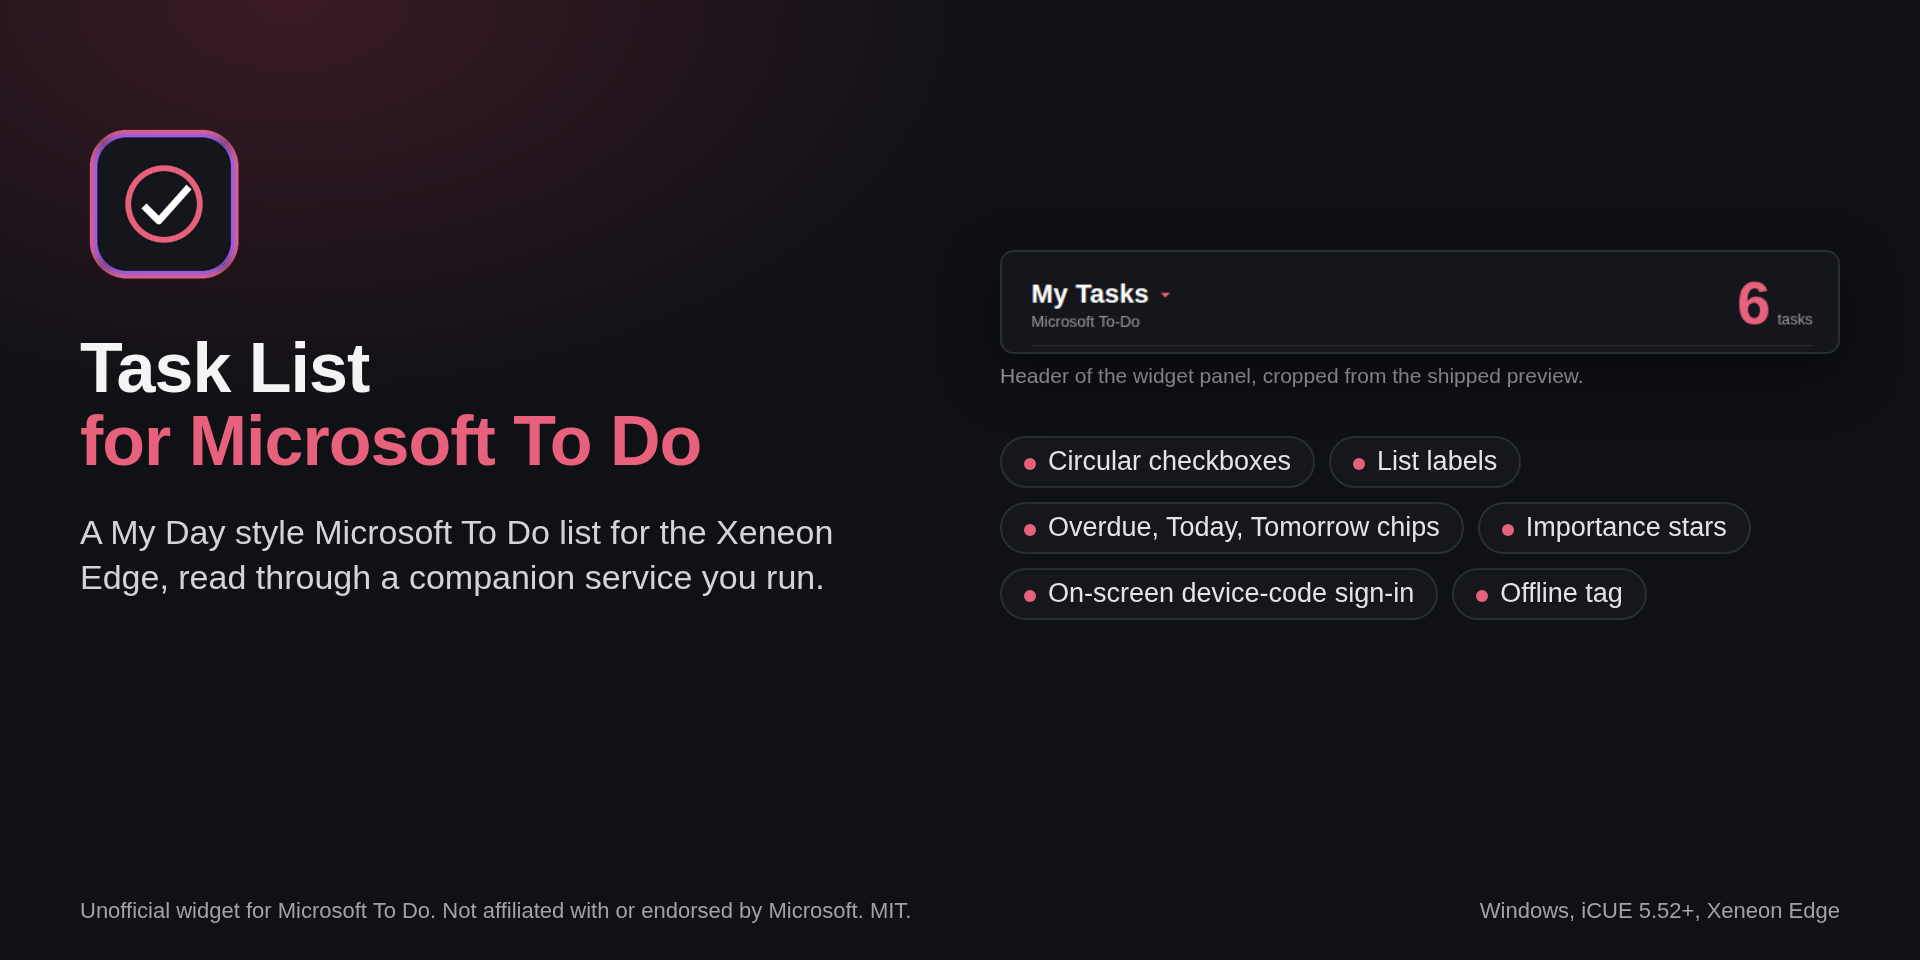
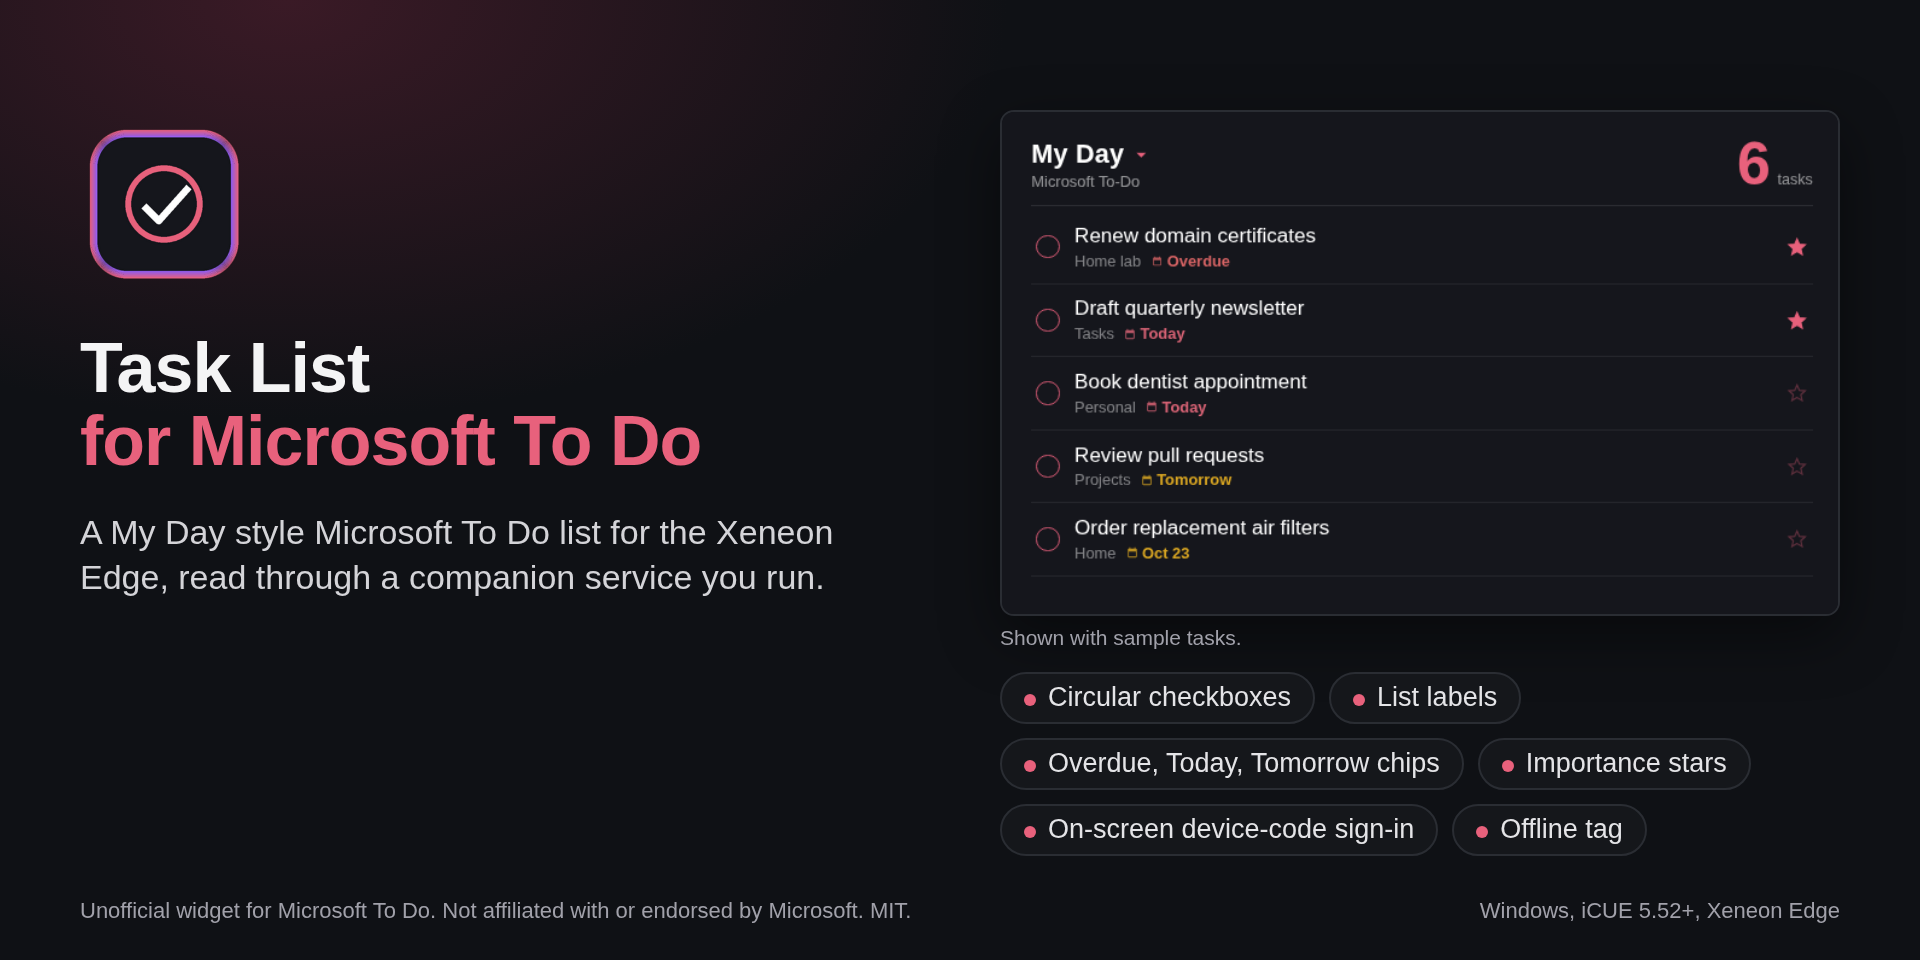
Point the README and listing kit at the published proxy image and 1.0.2

diff --git a/marketplace/src/gallery-01.html b/marketplace/src/gallery-01.html
@@ -8,9 +8,9 @@
   <h1>Task List<br><span class="accent">for Microsoft To Do</span></h1>
   <p class="sub">A My Day style Microsoft To Do list for the Xeneon Edge, read through a companion service you run.</p>
 </div>
-<div style="position:absolute; left:1000px; top:250px; width:840px;">
-  <div class="tile" style="width:840px; height:104px; position:relative;"><img src="../../resources/preview.png" style="width:840px; position:absolute; left:0; top:0;"></div>
-  <div class="cap" style="font-size:21px; color:#a1a1aa; margin-top:10px;">Header of the widget panel, cropped from the shipped preview.</div>
-  <div class="pills" style="margin-top:48px;"><span>Circular checkboxes</span><span>List labels</span><span>Overdue, Today, Tomorrow chips</span><span>Importance stars</span><span>On-screen device-code sign-in</span><span>Offline tag</span></div>
+<div style="position:absolute; left:1000px; top:110px; width:840px;">
+  <div class="tile" style="width:840px;"><img src="../../resources/preview.png" style="width:840px; display:block;"></div>
+  <div class="cap" style="font-size:21px; color:#a1a1aa; margin-top:10px;">Shown with sample tasks.</div>
+  <div class="pills" style="margin-top:22px;"><span>Circular checkboxes</span><span>List labels</span><span>Overdue, Today, Tomorrow chips</span><span>Importance stars</span><span>On-screen device-code sign-in</span><span>Offline tag</span></div>
 </div>
 <div class="foot"><span>Unofficial widget for Microsoft To Do. Not affiliated with or endorsed by Microsoft. MIT.</span><span>Windows, iCUE 5.52+, Xeneon Edge</span></div>

diff --git a/marketplace/listing.md b/marketplace/listing.md
@@ -30,15 +30,17 @@ Gaming, Artistic, Monitoring, Engagement and Social; pick the closest one the co
 
 ## Release notes
 
-Version 1.0.1
+Version 1.0.2
 
+- Replaces the preview image with one rendered from sample data.
+- Packages only the files the widget loads; the preview image, README and this kit stay out of the `.icuewidget`.
 - Declares url network permissions in the manifest (`localhost:8585` and `any`).
 - Sets `min_app_version` to 5.52.
 - Bundles the media viewer inside the widget folder and self-closes the head elements, so the package passes the iCUE widget validator.
 - Replaces personal host defaults with generic ones.
 - Adds a SECURITY policy and a README Install section that points at the GitHub release.
 
-(Condensed from the GitHub release notes for v1.0.1 (`gh release view v1.0.1 -R joshuawowk/icue-widget-mstodo`).)
+(Condensed from the GitHub release notes for v1.0.2 and v1.0.1 (`gh release view v1.0.2 -R joshuawowk/icue-widget-mstodo`).)
 
 ## Requirements
 
@@ -47,7 +49,7 @@ Version 1.0.1
 - A CORSAIR Xeneon Edge (`dashboard_lcd` device).
 - xeneon-graph-proxy (https://github.com/joshuawowk/xeneon-graph-proxy) running and reachable from the PC, by default at `http://localhost:8585`. It is a companion service the user runs; the widget does not talk to Microsoft directly.
 - A Microsoft account with To Do lists; the proxy signs in once by device code and holds read-only Graph scopes (`Tasks.Read`).
-- Packaging status of the proxy is a snapshot: the v1.0.1 README says the `ghcr.io` container image was not yet published and the proxy must be built from source with `docker compose up -d --build`. Re-check with `gh release list -R joshuawowk/xeneon-graph-proxy` and the proxy README before submitting, and update this listing if the image is now published.
+- The proxy ships as a container image: `docker pull ghcr.io/joshuawowk/xeneon-graph-proxy:0.1.0` (linux/amd64, linux/arm64). See the proxy README for setup.
 
 ## Network permissions
 
@@ -66,14 +68,14 @@ MIT, see `LICENSE` in the repository root. Source: https://github.com/joshuawowk
 - Submission route unverified. Elgato's become-a-maker page lists Stream Deck, Wave Link, OBS and 3D as self-serve Maker
   Console categories but does not list iCUE widgets. If the console has no iCUE widget option, the fallback is the
   maker@elgato.com "New Product Submission" email route.
-- File to upload: `microsoft-todo.icuewidget`, the `.icuewidget` attached to GitHub release v1.0.1:
-  https://github.com/joshuawowk/icue-widget-mstodo/releases/download/v1.0.1/microsoft-todo.icuewidget
+- File to upload: `microsoft-todo.icuewidget`, the `.icuewidget` attached to GitHub release v1.0.2:
+  https://github.com/joshuawowk/icue-widget-mstodo/releases/download/v1.0.2/microsoft-todo.icuewidget
   Download it from the release; do not zip the folder by hand. To rebuild it, use `npm run package` (needs
   `npm install -g icuewidget-cli`).
-- Manifest version is 1.0.1 and the file above matches release v1.0.1. If you submit a later release, update the
+- Manifest version is 1.0.2 and the file above matches release v1.0.2. If you submit a later release, update the
   version, release notes and file name in this kit first.
 - Listing icon: `resources/icon.png` is 256x256 and was upscaled to 288x288 with ImageMagick (`convert resources/icon.png -resize 288x288!`), so it is slightly soft; re-export `resources/icon.svg` at 288 for a sharper icon if needed.
-- Packaging caveat: `npm run package` runs `icuewidget package .` on the repository root, which zips every non-hidden file. A `marketplace/` folder would therefore be swept into future `.icuewidget` builds (about 0.8 MB of PNGs and HTML). Nothing in this kit changes the package script; stage the widget files or exclude `marketplace/` before the next release build.
+- Packaging: `npm run package` (tools/package.js) stages only the files the widget loads, so `marketplace/`, the README and `resources/preview.png` stay out of the `.icuewidget`.
 - Validator note: `icuewidget validate` (CLI 0.5.0, run in October 2026 on the unzipped local `dist/` build of that version) passes with one warning that the `any` url permission grants access to every external host. The permission is intentional because the host is user-entered; expect reviewers to ask about it and point them at the Network permissions section.
 - Not tested on hardware: the kit was written without Windows, iCUE or a Xeneon Edge. Gallery slides show the shipped preview and text only; no screenshot was taken from a running panel.
 
@@ -82,11 +84,11 @@ MIT, see `LICENSE` in the repository root. Source: https://github.com/joshuawowk
 | File | Size | Use |
 | --- | --- | --- |
 | `listing-icon-288.png` | 288x288 | Product icon |
-| `gallery-01.png` | 1920x960 | Overview: product name and a crop of the widget header from `resources/preview.png` |
+| `gallery-01.png` | 1920x960 | Overview: product name and the full widget preview (`resources/preview.png`, rendered from sample data) |
 | `gallery-02.png` | 1920x960 | Feature cards: lists, due chips, importance stars, sign-in, offline, sizing |
 | `gallery-03.png` | 1920x960 | Widget, xeneon-graph-proxy and Microsoft Graph, setup steps and network permission |
 
-`resources/preview.png` is NOT used in full. It shows what look like real work task titles and list names, and the gallery images must carry no real task content, so slide 1 uses only a crop of its header strip (the "My Tasks" title and count) and the other slides are built from the feature list. `resources/preview.png` is also shipped inside the released `.icuewidget`; consider regenerating it from sample data.
+`resources/preview.png` was regenerated from sample data against a mock proxy on 2026-10-20 (the earlier image showed real entries). It is not part of the packaged widget.
 `marketplace/src/` holds the HTML sources and `marketplace/build.sh` re-renders the gallery PNGs with
 headless Chromium.
 

diff --git a/README.md b/README.md
@@ -13,7 +13,7 @@ A **My Day**-style Microsoft To-Do list for the CORSAIR Xeneon Edge, visually mo
 > docker run -d --name xeneon-graph-proxy --restart unless-stopped -p 8585:8585 -v xeneon-graph-proxy-data:/data ghcr.io/joshuawowk/xeneon-graph-proxy:latest
 > ```
 >
-> The `ghcr.io` image is not published yet at the time of writing. Until it is, build it from source with `docker compose up -d --build` as described in the [proxy README](https://github.com/joshuawowk/xeneon-graph-proxy#quick-start-docker). Then start sign-in once with `curl -X POST http://localhost:8585/auth/start` and follow the printed instructions.
+> Run the proxy from its published image, `ghcr.io/joshuawowk/xeneon-graph-proxy` (linux/amd64, linux/arm64); the [proxy README](https://github.com/joshuawowk/xeneon-graph-proxy#quick-start-docker) has the full `docker run` and compose setup. Then start sign-in once with `curl -X POST http://localhost:8585/auth/start` and follow the printed instructions.
 
 Microsoft Graph has no static API keys, so this widget pairs with **[xeneon-graph-proxy](https://github.com/joshuawowk/xeneon-graph-proxy)** — a tiny LAN service that signs in once via device code and serves read-only JSON. The widget even displays the device-code on screen when sign-in is needed.
 
